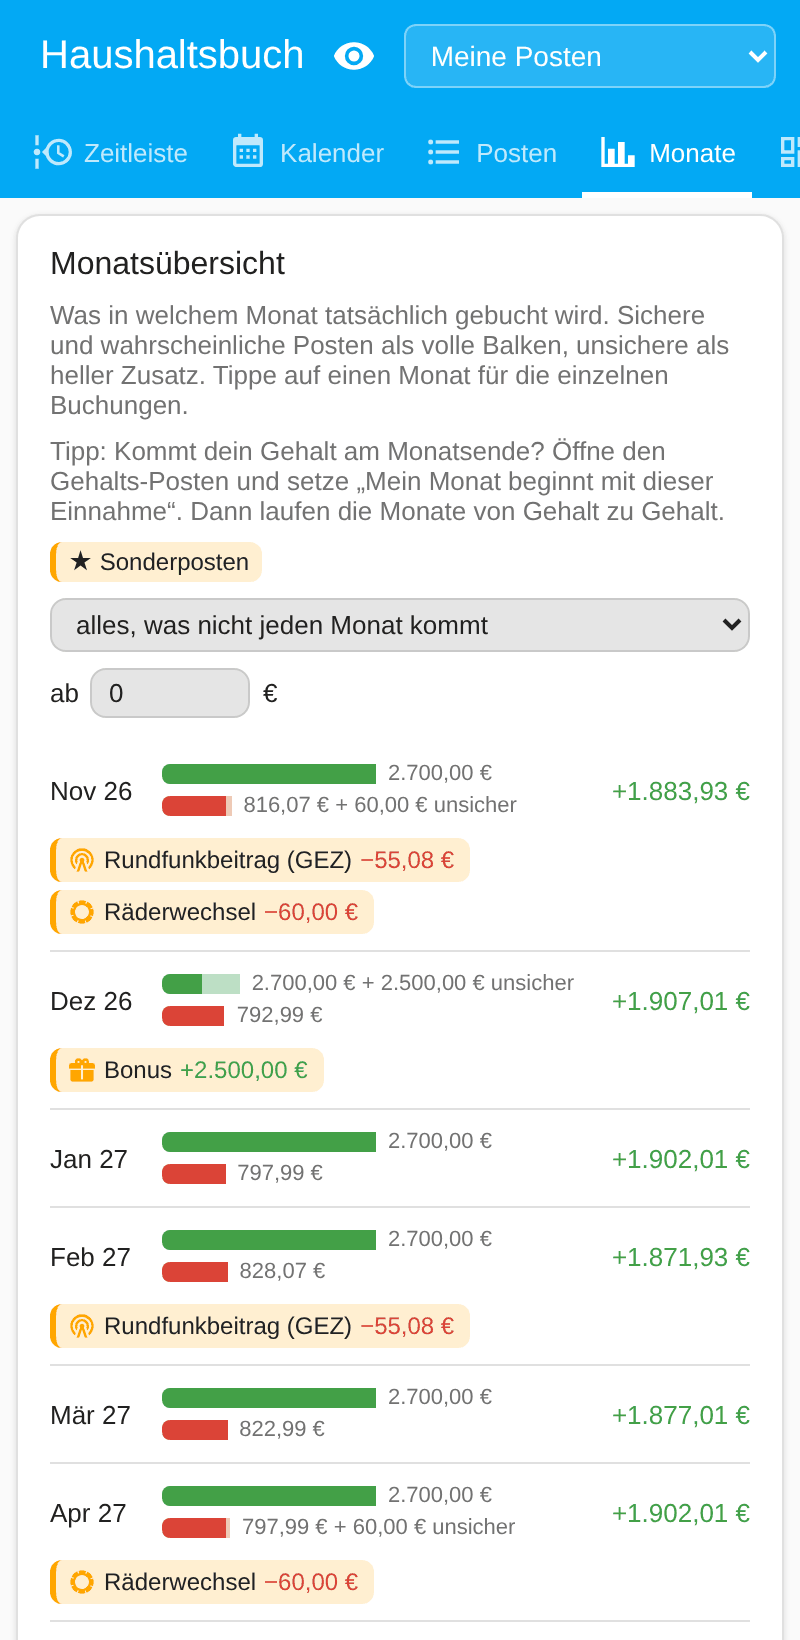
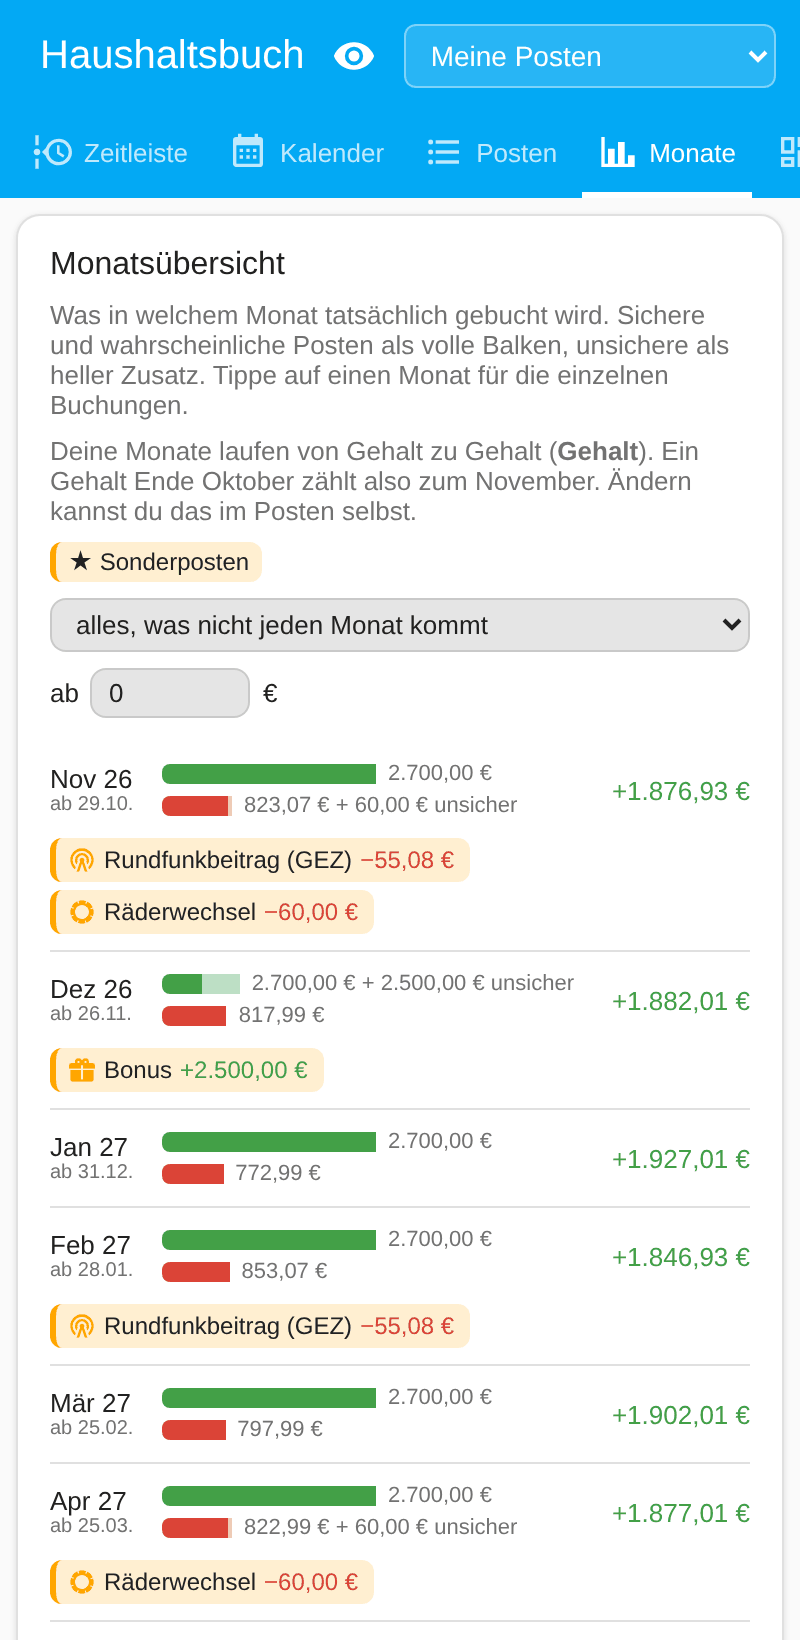
Anleitung und Screenshots zum Gehaltsmonat (v0.8.1)
Claude-Session: https://claude.ai/code/session_01TQxBNxp7GSYrGRsbUUGUXa

diff --git a/custom_components/haushaltsbuch/const.py b/custom_components/haushaltsbuch/const.py
@@ -2,7 +2,7 @@
 from __future__ import annotations
 
 DOMAIN = "haushaltsbuch"
-VERSION = "0.8.0"
+VERSION = "0.8.1"
 
 STORAGE_KEY = f"{DOMAIN}.data"
 STORAGE_VERSION = 1

diff --git a/README.md b/README.md
@@ -34,6 +34,7 @@ Alle Posten werden von Hand erfasst. Es gibt keine Bankanbindung, und die Daten 
 - **Termin festlegen**: Datum und Betrag einer einzelnen Buchung festlegen. Bei gleitenden Posten rücken alle weiteren Termine nach, sonst wird nur diese eine Buchung verschoben.
 - **Bestätigen**: Fällige Buchungen als „gebucht“ (optional mit echtem Datum und Betrag) oder „ausgefallen“ markieren
 - **Wochenenden und Bankfeiertage**: Buchungen rutschen auf den nächsten Bankarbeitstag, das Gehalt auf den vorherigen (pro Posten einstellbar)
+- **Gehaltsmonat**: Kommt das Gehalt am Monatsende (z.B. am letzten Donnerstag), laufen Monate und Auswertungen von Gehalt zu Gehalt, und die Übersicht zeigt den Stand **vor dem nächsten Gehalt**
 - **Monatsübersicht** mit Einnahmen, Ausgaben und Saldo für 12 Monate. **Sonderposten** (alles, was nicht jeden Monat kommt, z.B. GEZ, Versicherungen, Bonus) sind pro Monat und in Zeitleiste und Kalender gelb markiert. Darunter die **Ausgaben nach Kategorie** für die nächsten 12 Monate.
 - **Übersicht** als Dashboard mit Kennzahlen und Kreisdiagramm nach Kategorie
 - **Suche** in den Posten und **alle offenen Buchungen auf einmal bestätigen**
@@ -112,7 +113,7 @@ Tab **Posten** → **+ Neuer Posten**.
    - *einmalig*: z.B. Bonus oder eine Rechnung
    - *Budget pro Monat*: für Ausgaben ohne feste Termine, z.B. Lebensmittel. Keine einzelnen Buchungen, das Budget wird gleichmäßig über den Monat verteilt.
 4. Optional ein **Enddatum** setzen (Häkchen „Enddatum festlegen“), z.B. wenn ein Kredit ausläuft.
-5. Bei einer Einnahme wie dem Gehalt: Häkchen **„Mein Monat beginnt mit dieser Einnahme“**, wenn das Gehalt am Monatsende kommt und die Abbuchungen des Folgemonats bezahlt. Dann laufen Monatsübersicht und Übersicht von Gehalt zu Gehalt (siehe [Monate](#6-monate)).
+5. Bei einer Einnahme wie dem Gehalt: Häkchen **„Mein Monat beginnt mit dieser Einnahme“**, wenn das Gehalt am Monatsende kommt und die Abbuchungen des Folgemonats bezahlt. Dann laufen Monatsübersicht und Übersicht von Gehalt zu Gehalt (siehe [Gehalt am Monatsende](#gehalt-am-monatsende-gehaltsmonat)).
 6. Unter **Schwankung und Sicherheit**: Schwankung des Betrags in %, Toleranz beim Datum, feste Sicherheitsstufe und das Verhalten am Wochenende.
 
 Bei der **Kategorie** öffnet sich beim Antippen eine Liste der vorhandenen Kategorien, Tippen filtert sie. Eine neue Kategorie gibst du einfach ein.
@@ -147,6 +148,26 @@ Das Haushaltsbuch prüft jeden Morgen um 9 Uhr alle Verträge. Muss einer in **3
 3. Testen: **Entwicklerwerkzeuge → Aktionen → „Haushaltsbuch: Kündigungsfristen melden“** mit **Alle kommenden** ausführen. Dann kommt sofort für jeden Vertrag, der in den nächsten 60 Tagen kündbar ist, eine Nachricht.
 
 Das Ereignis enthält `name`, `cancel_by`, `contract_end`, `days_left`, `renews`, `amount`, `owner_name` und `household`, falls du lieber eine eigene Automation baust. Es kommt auch für private Posten, sichtbar ist es aber nur für Admins in den Automationen.
+
+### Gehalt am Monatsende (Gehaltsmonat)
+
+Viele bekommen ihr Gehalt nicht am 1., sondern am Monatsende, z.B. **immer am letzten Donnerstag**. Die Abbuchungen danach (Miete, Strom, Versicherungen) bezahlt dieses Gehalt. Rechnet die App in Kalendermonaten, sieht es am Monatsende so aus, als wäre viel Geld übrig, obwohl es für den nächsten Monat gedacht ist. So stellst du das um:
+
+1. Gehalts-Posten öffnen (oder neu anlegen, z.B. mit der Vorlage **Gehalt**).
+2. **Turnus:** *monatlich am Wochentag*, dann **Welcher Tag?** → *letzter* und *Donnerstag*. Es gehen auch *erster* bis *vierter* und jeder andere Wochentag.
+3. **Gültig ab:** ungefähr ab wann das gilt. Die Termine berechnet die App selbst.
+4. Häkchen **„Mein Monat beginnt mit dieser Einnahme (Gehalt)“** setzen und speichern.
+
+<img src="https://raw.githubusercontent.com/FabianWeyerstall/ha-haushaltsbuch/main/docs/images/14-gehalt.png" alt="Gehalt am letzten Donnerstag mit Gehaltsmonat" width="260">
+
+Was sich dadurch ändert:
+
+- **Monate:** Jeder Monat läuft von Gehalt zu Gehalt. Unter dem Monatsnamen steht, ab wann er zählt, z.B. „Nov 26, ab 29.10.“. Ein Gehalt nach dem 15. gehört zum Folgemonat, ein Gehalt Ende Oktober also zum November, zusammen mit den Abbuchungen, die es bezahlt.
+- **Übersicht:** Statt „Erwartet zum Monatsende“ steht dort **„Vor dem nächsten Gehalt“**: was am Tag vor dem nächsten Gehalt übrig ist, wenn alle Abbuchungen des Monats schon runter sind. Das ist die ehrliche Zahl dafür, wie viel wirklich übrig bleibt.
+- Auch die Auswertungen der Übersicht (Kategorien, Sicherheit, Sonderposten) rechnen in diesen Gehaltsmonaten.
+- **Zeitleiste und Kalender** bleiben, wie sie sind. Der Kalender zeigt weiter normale Kalendermonate.
+
+Das Häkchen kann immer nur eine Einnahme haben und gilt für dich persönlich. Nimmst du es wieder raus, rechnet die App wieder in Kalendermonaten.
 
 ### 3. Die Zeitleiste lesen
 
@@ -214,7 +235,7 @@ Für die nächsten 12 Monate stehen hier Einnahmen (grün) und Ausgaben (rot) al
 
 **Sonderposten** sind gelb markiert und stehen als Etiketten unter dem Monat. Oben stellst du ein, was als Sonderposten zählt: standardmäßig alles, was nicht jeden Monat kommt. Du kannst aber auch z.B. „erst ab vierteljährlich“ wählen und einen Mindestbetrag setzen. Die Einstellung gilt für Monate, Zeitleiste und Kalender.
 
-**Gehaltsmonat:** Kommt dein Gehalt am Monatsende (z.B. am letzten Donnerstag), setze im Gehalts-Posten das Häkchen „Mein Monat beginnt mit dieser Einnahme“. Dann läuft jeder Monat von Gehalt zu Gehalt, und unter dem Monatsnamen steht, ab wann er zählt. Ein Gehalt nach dem 15. gehört zum Folgemonat, ein Gehalt Ende Oktober also zum November, zusammen mit den Abbuchungen, die es bezahlt. Der Kalender bleibt beim normalen Kalendermonat.
+**Gehaltsmonat:** Hast du beim Gehalt „Mein Monat beginnt mit dieser Einnahme“ gesetzt, läuft jeder Monat von Gehalt zu Gehalt, und unter dem Monatsnamen steht, ab wann er zählt (siehe [Gehalt am Monatsende](#gehalt-am-monatsende-gehaltsmonat)).
 
 Einen Monat antippen klappt die einzelnen Buchungen auf. Ganz unten steht, welche **Kategorien** am meisten kosten: groß der Durchschnitt pro Monat, klein darunter die Summe der nächsten 12 Monate. Ein Budget von 500 € pro Monat steht dort also als 500 € und klein als rund 6.000 €.
 

diff --git a/README.en.md b/README.en.md
@@ -35,6 +35,7 @@ All items are entered by hand. There is no bank connection, and the data stays i
 - **Fix a date** for a single booking. For rolling entries, all later dates move along; otherwise only this one booking moves.
 - **Confirm** due bookings as *booked* (optionally with the real date and amount) or *skipped*
 - **Weekends and bank holidays**: bookings move to the next business day, salary to the previous one (configurable per entry)
+- **Salary month**: if your salary arrives at the end of the month (e.g. on the last Thursday), months and figures run from payday to payday and the overview shows the balance **before the next payday**
 - **Monthly overview** with income, expenses and balance for 12 months. **Special entries** (anything that does not occur every month, e.g. insurance, bonus) are highlighted. Below that, **spending per category**.
 - **Overview** dashboard with key figures and a pie chart by category
 - **Search** in entries and **confirm all open bookings at once**
@@ -115,7 +116,7 @@ Tab **Entries** → **+ New entry**.
    - *once*: e.g. a bonus or an invoice
    - *monthly budget*: for spending without fixed dates, e.g. groceries. No single bookings; the budget is spread evenly over the month.
 4. Optionally **set an end date**, e.g. when a loan ends.
-5. For income such as your salary: tick **"My month starts with this income"** if the salary arrives at the end of the month and pays the next month's debits. Months then run from payday to payday (see [Months](#6-months)).
+5. For income such as your salary: tick **"My month starts with this income"** if the salary arrives at the end of the month and pays the next month's debits. Months then run from payday to payday (see [Salary at the end of the month](#salary-at-the-end-of-the-month-salary-month)).
 6. Under **Variation and certainty**: amount variance in %, date tolerance, fixed certainty level and weekend behaviour.
 
 The **Category** field opens a list of existing categories; typing filters it. To create a new category, just type it.
@@ -147,6 +148,26 @@ Every morning at 9:00 the integration checks all contracts. If one has to be can
 3. Test: **Developer tools → Actions → "Haushaltsbuch: Send contract reminders"** with **All upcoming** enabled. You immediately get a notification for every contract cancellable within the next 60 days.
 
 The event contains `name`, `cancel_by`, `contract_end`, `days_left`, `renews`, `amount`, `owner_name` and `household` if you prefer your own automation.
+
+### Salary at the end of the month (salary month)
+
+Many people are not paid on the 1st but at the end of the month, e.g. **always on the last Thursday**. That salary pays the debits that follow (rent, electricity, insurance). If the app counted in calendar months, the end of the month would look like a lot of money is left, although it is meant for the next month. To switch:
+
+1. Open your salary entry (or create one, e.g. with the **Salary** template).
+2. **Repeats:** *monthly on a weekday*, then **Which day?** → *last* and *Thursday*. *First* to *fourth* and any other weekday work too.
+3. **Valid from:** roughly from when this applies. The app works out the dates itself.
+4. Tick **"My month starts with this income (salary)"** and save.
+
+<img src="https://raw.githubusercontent.com/FabianWeyerstall/ha-haushaltsbuch/main/docs/images/en/14-salary.png" alt="Salary on the last Thursday with salary month" width="260">
+
+What changes:
+
+- **Months:** each month runs from payday to payday. Below the month name you see from when it counts, e.g. "Nov 26, from 10/29". A salary paid after the 15th belongs to the next month, so a salary at the end of October counts for November, together with the debits it pays.
+- **Overview:** instead of "Expected at month end" it shows **"Before next payday"**: what is left the day before the next salary, when all of the month's debits have gone out. That is the honest figure for what is really left.
+- The overview's breakdowns (categories, certainty, special entries) use these salary months too.
+- **Timeline and calendar** stay as they are. The calendar keeps normal calendar months.
+
+Only one income can carry the tick, and it applies to you personally. Untick it and the app goes back to calendar months.
 
 ### 3. Reading the timeline
 
@@ -204,7 +225,7 @@ For the next 12 months, income (green) and expenses (red) are shown as bars. Ful
 
 **Special entries** are highlighted in yellow and listed as labels under the month. At the top you choose what counts as special: by default everything that does not occur every month, or e.g. only quarterly and less frequent, optionally above a minimum amount. The setting applies to months, timeline and calendar.
 
-**Salary month:** If your salary arrives at the end of the month (e.g. on the last Thursday), tick "My month starts with this income" in the salary entry. Each month then runs from payday to payday, and below the month name you see from when it counts. A salary paid after the 15th belongs to the next month, so a salary at the end of October counts for November, together with the debits it pays. The calendar keeps normal calendar months.
+**Salary month:** If you ticked "My month starts with this income" on your salary, each month runs from payday to payday and below the month name you see from when it counts (see [Salary at the end of the month](#salary-at-the-end-of-the-month-salary-month)).
 
 Tap a month to expand its bookings. At the bottom, **spending per category**: large is the average per month, small the sum of the next 12 months.
 
